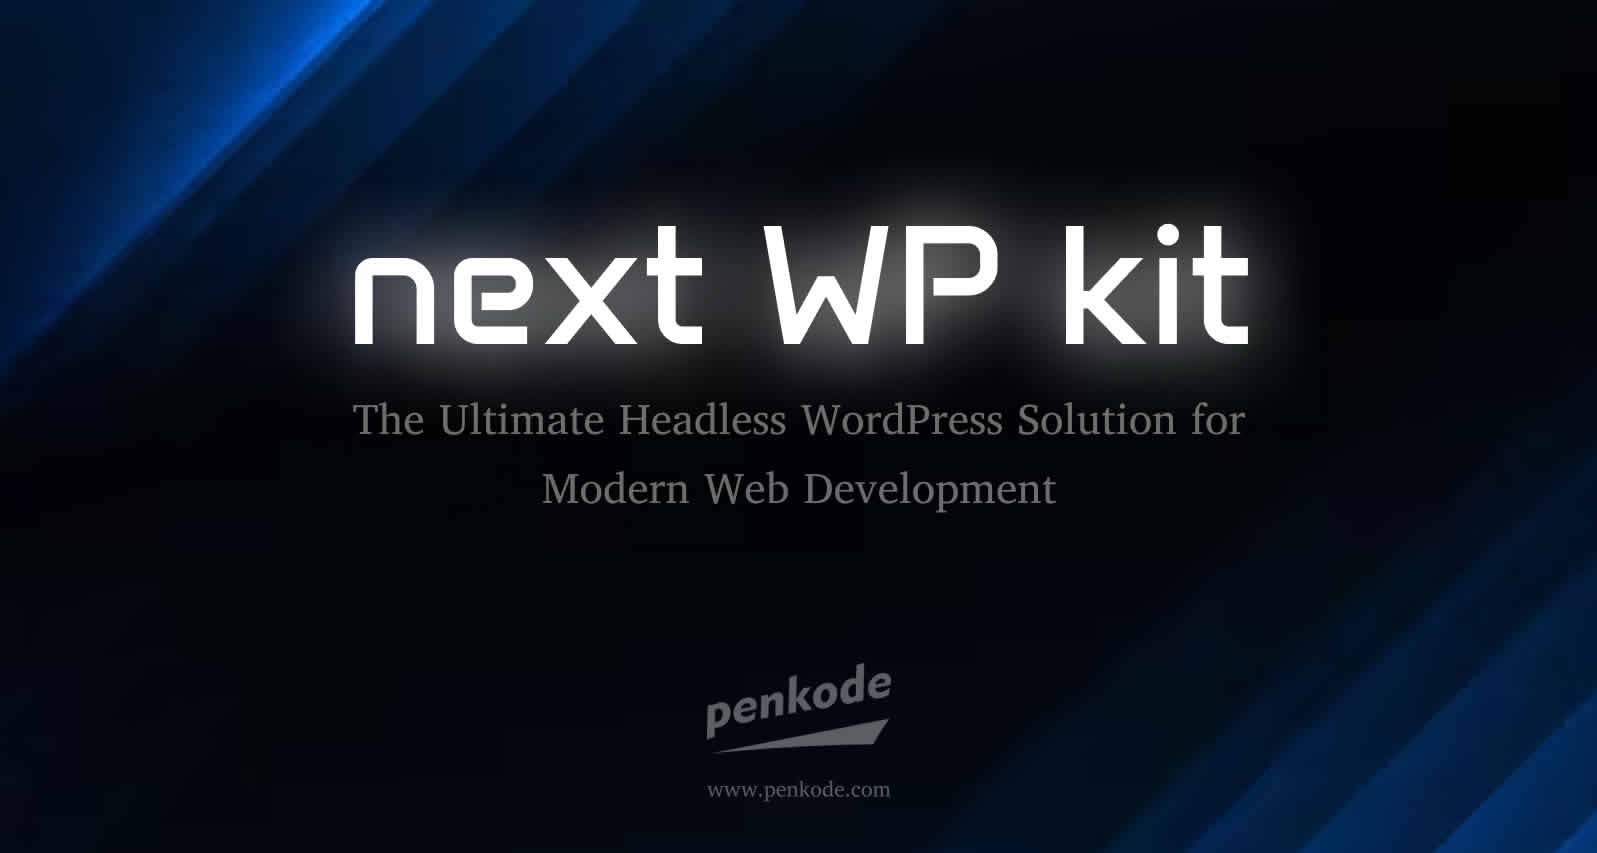
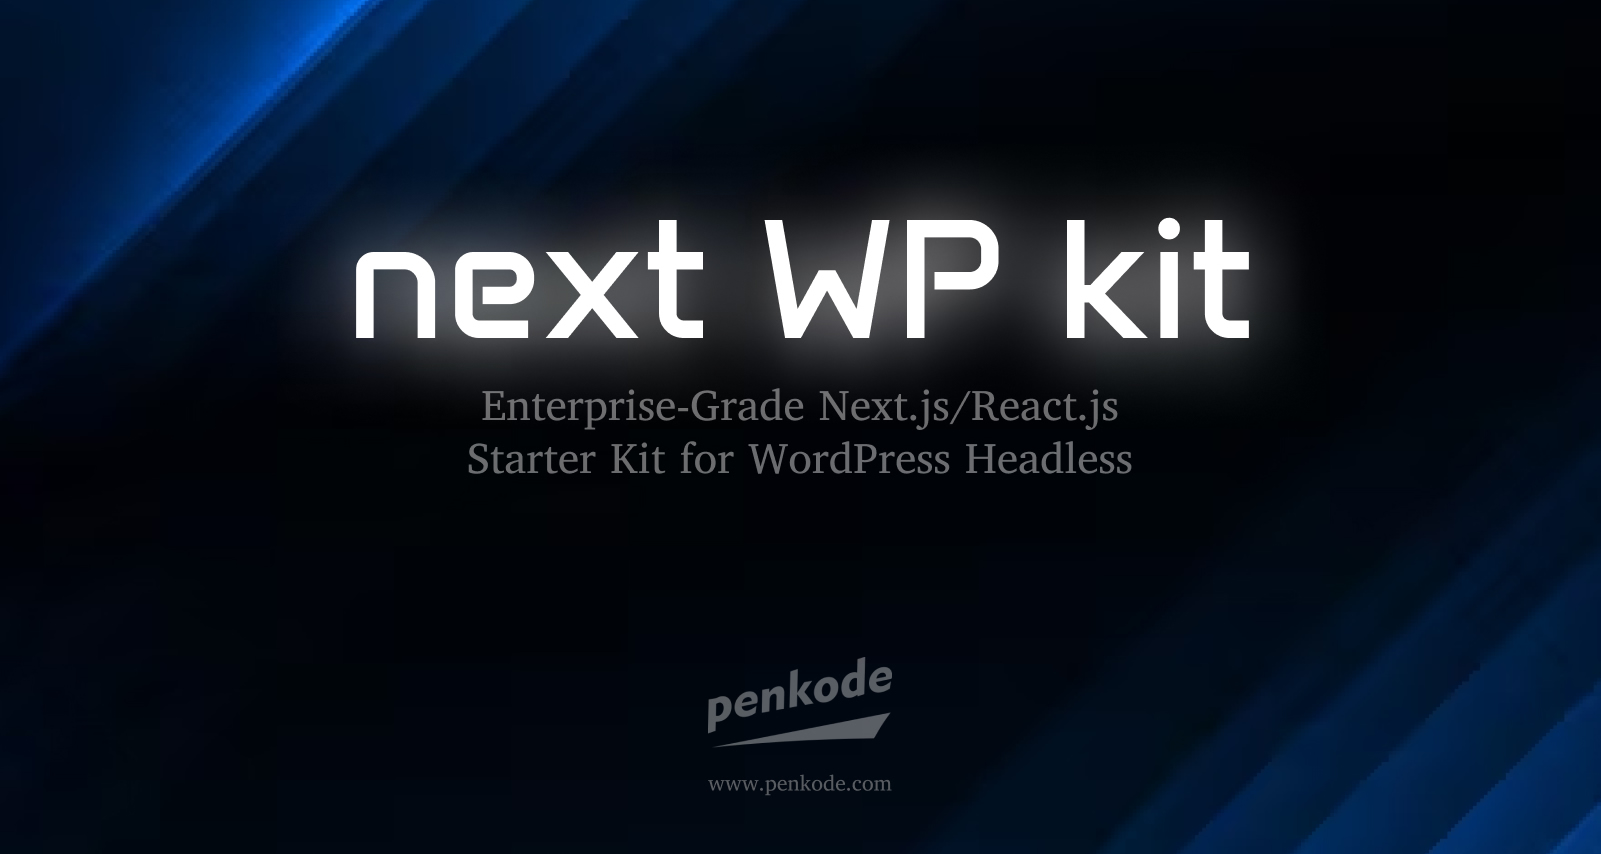
Upgrade social media preview3

diff --git a/README.md b/README.md
@@ -2,24 +2,24 @@
 
 ![Next-WP-Kit](https://img.shields.io/badge/Next.js-14.2-black?style=for-the-badge&logo=next.js) ![WordPress](https://img.shields.io/badge/WordPress-Headless-blue?style=for-the-badge&logo=wordpress) ![TypeScript](https://img.shields.io/badge/TypeScript-5-blue?style=for-the-badge&logo=typescript) ![SASS](https://img.shields.io/badge/Sass-SCSS-hotpink?style=for-the-badge&logo=sass) ![Framer Motion](https://img.shields.io/badge/Framer-Motion-purple?style=for-the-badge&logo=framer)
 
-**The Ultimate Headless WordPress Solution for Modern Web Development**
+**Enterprise-Grade Next.js/React.js Starter Kit for WordPress Headless**
 
 <!-- Social Media Preview -->
 <meta property="og:title" content="Next-WP-Kit: Enterprise-Grade Next.js Starter for WordPress Headless" />
 <meta property="og:description" content="Transform your WordPress content into lightning-fast, SEO-optimized websites. Built by Paulo Ramalho with 15+ years of headless architecture expertise." />
-<meta property="og:image" content="./public/images/screen-next-kit.jpg" />
+<meta property="og:image" content="https://raw.githubusercontent.com/penkodedev/next-wp-kit/main/public/images/screen-next-kit.jpg?v=3" />
 <meta property="og:url" content="https://github.com/penkodedev/next-wp-kit" />
 <meta property="og:type" content="website" />
 <meta name="twitter:card" content="summary_large_image" />
 <meta name="twitter:title" content="Next-WP-Kit: Enterprise-Grade Next.js Starter for WordPress Headless" />
 <meta name="twitter:description" content="Transform your WordPress content into lightning-fast, SEO-optimized websites. Built by Paulo Ramalho with 15+ years of headless architecture expertise." />
-<meta name="twitter:image" content="./public/images/screen-next-kit.jpg" />
+<meta name="twitter:image" content="https://raw.githubusercontent.com/penkodedev/next-wp-kit/main/public/images/screen-next-kit.jpg?v=3" />
 
 ![Next-WP-Kit Preview](./public/images/screen-next-kit.jpg?v=2)
 
 **👨💻 Created by [Paulo Ramalho (penkode.com)](https://www.penkode.com)** - WordPress specialist with 15+ years crafting custom websites from scratch (Custom Post Types, custom metas, themes). Now specializing in headless architectures, custom REST APIs, and React/Next.js integrations. Penkode represents Paulo's personal brand and expertise in building bespoke digital solutions.
 
-**⚡ Works best with [Penkode WP Headless Theme](https://github.com/penkodev/penkode-wp-headless){:target="_blank"} - Our complementary WordPress theme with custom meta fields, optimized REST API endpoints, advanced shortcode processing, and seamless integration for the perfect headless WordPress experience.**
+**⚡ Works best with [Penkode WP Headless Theme](https://github.com/penkodev/penkode-wp-headless) - Our complementary WordPress theme with custom meta fields, optimized REST API endpoints, advanced shortcode processing, and seamless integration for the perfect headless WordPress experience.**
 
 Transform your WordPress content into lightning-fast, SEO-optimized websites with our enterprise-grade starter kit. Built for agencies, developers, and businesses who demand performance, scalability, and developer experience.
 
